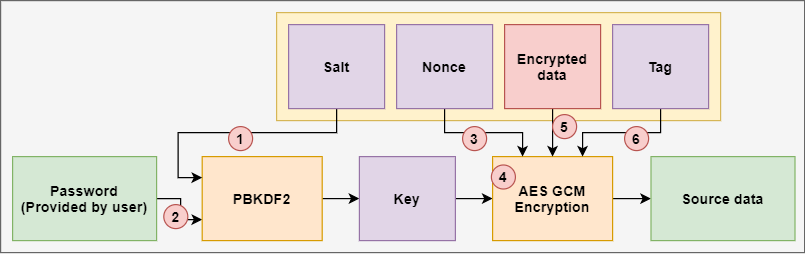
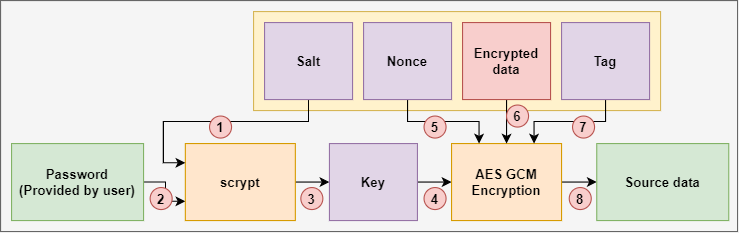
deploy: bbc1d8b04a5475883d2f68c6b2c6ae458238b070

diff --git a/blog/post/python-gcm-encryption-tutorial/index.html b/blog/post/python-gcm-encryption-tutorial/index.html
@@ -105,7 +105,7 @@
 <li><a href="#installing-pycryptodome">Installing PyCryptodome</a></li>
 <li><a href="#generating-a-key">Generating A Key</a><ul>
 <li><a href="#generating-a-salt">Generating a Salt</a></li>
-<li><a href="#generating-the-key-using-pbkdf2">Generating the Key Using PBKDF2</a></li>
+<li><a href="#generating-the-key-using-scrypt">Generating the Key Using scrypt</a></li>
 </ul>
 </li>
 <li><a href="#source-and-storage-planning">Source and Storage Planning</a><ul>
@@ -167,13 +167,13 @@
 <li><a href="/blog/post/python-encryption-and-decryption-with-pycryptodome/#generating-a-key-from-a-password">How to generate a key from a password</a></li>
 </ul>
 <p>For this tutorial I'll just go over how to generate a key from a password as it is the most popular method. You are still free to use a randomly generate key as demonstrated in the links above - they will still work with these examples.</p>
-<p>When generating a key from a password, we need to take a string provided by the user and create an appropriately sized byte sequence; the method used must produce the same output for the same inputs. To do this we can use <code>Crypto.Protocol.KDF.PBKDF2</code> (<a href="https://pycryptodome.readthedocs.io/en/latest/src/protocol/kdf.html#Crypto.Protocol.KDF.PBKDF2">API reference</a>). PBKDF2 allows us to generate a key of any length by simply passing a password and <em>salt</em>. </p>
+<p>When generating a key from a password, we need to take a string provided by the user and create an appropriately sized byte sequence; the method used must produce the same output for the same inputs. To do this we can use <code>Crypto.Protocol.KDF.scrypt</code> (<a href="https://pycryptodome.readthedocs.io/en/latest/src/protocol/kdf.html#scrypt">API reference</a>). <em>scrypt</em> allows us to generate a key of any length by simply passing a password and <em>salt</em>. </p>
 <blockquote>
-<p>PBKDF2 is used because PBKDF1 can only generate keys up to 160 bits long.</p>
+<p>scrypt has been used instead of PBKDF2 because in addition to being computationally expensive, it is also memory intensive and therefore more secure against the risk of custom ASICs.</p>
 </blockquote>
-<p>PBKDF2 is different to the SHA family (ie. <em>SHA-256</em> and <em>SHA-512</em>) because it also takes a salt and a work factor. Providing a salt that will mean that the same hash does not map to the same password every time, thus preventing <a href="https://en.wikipedia.org/wiki/Rainbow_table">rainbow table</a> lookups. A work factor is also specified to make the transformation more computationally difficult which means the key is harder to brute force.</p>
+<p><em>scrypt</em> is different to the SHA family (ie. <em>SHA-256</em> and <em>SHA-512</em>) because it also takes a salt and a work factor. Providing a salt that will mean that the same hash does not map to the same password every time, thus preventing <a href="https://en.wikipedia.org/wiki/Rainbow_table">rainbow table</a> lookups. A work factor is also specified to make the transformation more computationally difficult which means the key is harder to brute force.</p>
 <blockquote>
-<p>You can read more about the differences between password hashes differ and secure hashes in <a href="https://crypto.stackexchange.com/a/35279">this reply on Stack Exchange</a>.</p>
+<p>You can read more about the differences between password hashes differ and secure hashes in <a href="https://crypto.stackexchange.com/a/35279">this reply on Stack Exchange</a> - in this example PBKDF2 is compared to SHA-512 rather than scrypt.</p>
 </blockquote>
 <h3 id="generating-a-salt">
 <span style="position:relative"><a class="anchor" href="#generating-a-salt"><svg aria-hidden="true" focusable="false" height="16" version="1.1" viewBox="0 0 16 16" width="16"><path d="M4 9h1v1H4c-1.5 0-3-1.69-3-3.5S2.55 3 4 3h4c1.45 0 3 1.69 3 3.5 0 1.41-.91 2.72-2 3.25V8.59c.58-.45 1-1.27 1-2.09C10 5.22 8.98 4 8 4H4c-.98 0-2 1.22-2 2.5S3 9 4 9zm9-3h-1v1h1c1 0 2 1.22 2 2.5S13.98 12 13 12H9c-.98 0-2-1.22-2-2.5 0-.83.42-1.64 1-2.09V6.25c-1.09.53-2 1.84-2 3.25C6 11.31 7.55 13 9 13h4c1.45 0 3-1.69 3-3.5S14.5 6 13 6z" fill-rule="evenodd"></path></svg></a>Generating a Salt</span></h3>
@@ -188,22 +188,26 @@
 </code></pre></div>
 
 
-<p>This is a random sequence of bytes that has been generated. For every object (like files) you will encrypt, you should generate a new salt for it to be combined with the password by PBKDF2. This will mean the same password does not create the same key for multiple objects.</p>
+<p>This is a random sequence of bytes that has been generated. For every object (like files) you will encrypt, you should generate a new salt for it to be combined with the password by scrypt. This will mean the same password does not create the same key for multiple objects.</p>
 <p>It's safe to store this generated salt with the encrypted output and in this tutorial I'll show you how to store them with the output and then read them back out. </p>
-<h3 id="generating-the-key-using-pbkdf2">
-<span style="position:relative"><a class="anchor" href="#generating-the-key-using-pbkdf2"><svg aria-hidden="true" focusable="false" height="16" version="1.1" viewBox="0 0 16 16" width="16"><path d="M4 9h1v1H4c-1.5 0-3-1.69-3-3.5S2.55 3 4 3h4c1.45 0 3 1.69 3 3.5 0 1.41-.91 2.72-2 3.25V8.59c.58-.45 1-1.27 1-2.09C10 5.22 8.98 4 8 4H4c-.98 0-2 1.22-2 2.5S3 9 4 9zm9-3h-1v1h1c1 0 2 1.22 2 2.5S13.98 12 13 12H9c-.98 0-2-1.22-2-2.5 0-.83.42-1.64 1-2.09V6.25c-1.09.53-2 1.84-2 3.25C6 11.31 7.55 13 9 13h4c1.45 0 3-1.69 3-3.5S14.5 6 13 6z" fill-rule="evenodd"></path></svg></a>Generating the Key Using PBKDF2</span></h3>
+<h3 id="generating-the-key-using-scrypt">
+<span style="position:relative"><a class="anchor" href="#generating-the-key-using-scrypt"><svg aria-hidden="true" focusable="false" height="16" version="1.1" viewBox="0 0 16 16" width="16"><path d="M4 9h1v1H4c-1.5 0-3-1.69-3-3.5S2.55 3 4 3h4c1.45 0 3 1.69 3 3.5 0 1.41-.91 2.72-2 3.25V8.59c.58-.45 1-1.27 1-2.09C10 5.22 8.98 4 8 4H4c-.98 0-2 1.22-2 2.5S3 9 4 9zm9-3h-1v1h1c1 0 2 1.22 2 2.5S13.98 12 13 12H9c-.98 0-2-1.22-2-2.5 0-.83.42-1.64 1-2.09V6.25c-1.09.53-2 1.84-2 3.25C6 11.31 7.55 13 9 13h4c1.45 0 3-1.69 3-3.5S14.5 6 13 6z" fill-rule="evenodd"></path></svg></a>Generating the Key Using scrypt</span></h3>
 <p>Now that you have generated a salt, we can generate a key using the password being provided. Passing the password provided by the user, the salt that you just generated as well as declaring the output length, we can get the key.</p>
-<div class="codehilite"><pre><span></span><code><span class="kn">from</span> <span class="nn">Crypto.Protocol.KDF</span> <span class="kn">import</span> <span class="n">PBKDF2</span>
+<div class="codehilite"><pre><span></span><code><span class="kn">from</span> <span class="nn">Crypto.Protocol.KDF</span> <span class="kn">import</span> <span class="n">scrypt</span>
 
 <span class="n">salt</span> <span class="o">=</span> <span class="sa">b</span><span class="s1">&#39;...&#39;</span>  <span class="c1"># Salt you generated</span>
 <span class="n">password</span> <span class="o">=</span> <span class="s1">&#39;password123&#39;</span>  <span class="c1"># Password provided by the user, can use input() to get this</span>
 
-<span class="n">key</span> <span class="o">=</span> <span class="n">PBKDF2</span><span class="p">(</span><span class="n">password</span><span class="p">,</span> <span class="n">salt</span><span class="p">,</span> <span class="n">dkLen</span><span class="o">=</span><span class="mi">32</span><span class="p">)</span>  <span class="c1"># Your key that you can encrypt with</span>
+<span class="n">key</span> <span class="o">=</span> <span class="n">scrypt</span><span class="p">(</span><span class="n">password</span><span class="p">,</span> <span class="n">salt</span><span class="p">,</span> <span class="n">key_len</span><span class="o">=</span><span class="mi">32</span><span class="p">,</span> <span class="n">N</span><span class="o">=</span><span class="mi">2</span><span class="o">**</span><span class="mi">17</span><span class="p">,</span> <span class="n">r</span><span class="o">=</span><span class="mi">8</span><span class="p">,</span> <span class="n">p</span><span class="o">=</span><span class="mi">1</span><span class="p">)</span>  <span class="c1"># Your key that you can encrypt with</span>
 </code></pre></div>
 
 
 <p>Now in <code>key</code>, you will have the key that you can use in encryption - you can view it using <code>print(key)</code>. You do not have to store this key now as you can see that this can be generated every time regarding the user provides the same password as long as you use the same salt (which we will be storing with the encrypted file/object).</p>
-<p>In the example above, <code>dkLen</code> has been set to 32; this is the length of the key that we want to be output. 32 has been used because 32 * 8 bits (8 bits = 1 byte) is 256, this means we will be using AES-256 when providing the key generated by this function.</p>
+<p>In the example above, <code>key_len</code> has been set to 32; this is the length of the key that we want to be output. 32 has been used because 32 * 8 bits (8 bits = 1 byte) is 256, this means we will be using AES-256 when providing the key generated by this function.</p>
+<p>I also passed values for <code>N</code>, <code>r</code> and <code>p</code> which can be found in the <a href="https://pycryptodome.readthedocs.io/en/latest/src/protocol/kdf.html#scrypt">docs for scrypt</a>. <code>N</code> is the work factor (CPU/Memory cost) which will determine how long it takes to calculate the output - 2^14 will be &lt;100ms whereas 2^20 will be &lt;5s on today's machines. </p>
+<blockquote>
+<p>I have left <code>N</code> as <code>2**17</code> to keep people happy about the timing of encryption - in the case of blind copy and paste. If you're implementing this in a critical system or want to add have scrypt return a slightly more secure derivation, I recommend bumping <code>N</code> to <code>2**20</code>.</p>
+</blockquote>
 <h2 id="source-and-storage-planning">
 <span style="position:relative"><a class="anchor" href="#source-and-storage-planning"><svg aria-hidden="true" focusable="false" height="16" version="1.1" viewBox="0 0 16 16" width="16"><path d="M4 9h1v1H4c-1.5 0-3-1.69-3-3.5S2.55 3 4 3h4c1.45 0 3 1.69 3 3.5 0 1.41-.91 2.72-2 3.25V8.59c.58-.45 1-1.27 1-2.09C10 5.22 8.98 4 8 4H4c-.98 0-2 1.22-2 2.5S3 9 4 9zm9-3h-1v1h1c1 0 2 1.22 2 2.5S13.98 12 13 12H9c-.98 0-2-1.22-2-2.5 0-.83.42-1.64 1-2.09V6.25c-1.09.53-2 1.84-2 3.25C6 11.31 7.55 13 9 13h4c1.45 0 3-1.69 3-3.5S14.5 6 13 6z" fill-rule="evenodd"></path></svg></a>Source and Storage Planning</span></h2>
 <p>Before we begin, we need to do a bit of planning of what is being encrypted (the source) and any transformations required, the inputs and outputs for both encryption and decryption and storing values we need to remember with the encrypted file.</p>
@@ -236,7 +240,7 @@
 <p><img alt="Encryption Flow Diagram" src="/posts/python-gcm-encryption-tutorial/encryption-flow-diagram.png" /></p>
 <ol>
 <li>Generate a new salt.</li>
-<li>Use <code>PBKDF2</code> to convert the salt and password into a key we can use.</li>
+<li>Use <code>scrypt</code> to convert the salt and password into a key we can use.</li>
 <li>Open a new file and write the salt out.<ul>
 <li>We write the salt to the output file first as we will need it when decrypting later.</li>
 <li>Putting it in this file allows to keep the correct salt with the encrypted data.</li>
@@ -271,7 +275,7 @@
 <li>The salt we generated was 32 bytes long, so calling <code>.read(32)</code> will get the salt out of the encrypted file.</li>
 </ul>
 </li>
-<li>Use <code>PBKDF2</code> to convert the salt and password into a key again.</li>
+<li>Use <code>scrypt</code> to convert the salt and password into a key again.</li>
 <li>Read the nonce from the source file like we did for the salt.<ul>
 <li>AES GCM always generates a nonce that is 16 bytes long, so calling <code>.read(16)</code> will get the nonce out of the encrypted file.</li>
 </ul>
@@ -287,7 +291,7 @@
 <span style="position:relative"><a class="anchor" href="#encryption"><svg aria-hidden="true" focusable="false" height="16" version="1.1" viewBox="0 0 16 16" width="16"><path d="M4 9h1v1H4c-1.5 0-3-1.69-3-3.5S2.55 3 4 3h4c1.45 0 3 1.69 3 3.5 0 1.41-.91 2.72-2 3.25V8.59c.58-.45 1-1.27 1-2.09C10 5.22 8.98 4 8 4H4c-.98 0-2 1.22-2 2.5S3 9 4 9zm9-3h-1v1h1c1 0 2 1.22 2 2.5S13.98 12 13 12H9c-.98 0-2-1.22-2-2.5 0-.83.42-1.64 1-2.09V6.25c-1.09.53-2 1.84-2 3.25C6 11.31 7.55 13 9 13h4c1.45 0 3-1.69 3-3.5S14.5 6 13 6z" fill-rule="evenodd"></path></svg></a>Encryption</span></h2>
 <div class="codehilite"><pre><span></span><code><span class="kn">from</span> <span class="nn">Crypto.Random</span> <span class="kn">import</span> <span class="n">get_random_bytes</span>
 <span class="kn">from</span> <span class="nn">Crypto.Cipher</span> <span class="kn">import</span> <span class="n">AES</span>
-<span class="kn">from</span> <span class="nn">Crypto.Protocol.KDF</span> <span class="kn">import</span> <span class="n">PBKDF2</span>
+<span class="kn">from</span> <span class="nn">Crypto.Protocol.KDF</span> <span class="kn">import</span> <span class="n">scrypt</span>
 
 <span class="n">BUFFER_SIZE</span> <span class="o">=</span> <span class="mi">1024</span> <span class="o">*</span> <span class="mi">1024</span>  <span class="c1"># The size in bytes that we read, encrypt and write to at once</span>
 
@@ -302,7 +306,7 @@
 <span class="n">file_out</span> <span class="o">=</span> <span class="nb">open</span><span class="p">(</span><span class="n">output_filename</span><span class="p">,</span> <span class="s1">&#39;wb&#39;</span><span class="p">)</span>  <span class="c1"># wb = write bytes. Required to write the encrypted data</span>
 
 <span class="n">salt</span> <span class="o">=</span> <span class="n">get_random_bytes</span><span class="p">(</span><span class="mi">32</span><span class="p">)</span>  <span class="c1"># Generate salt</span>
-<span class="n">key</span> <span class="o">=</span> <span class="n">PBKDF2</span><span class="p">(</span><span class="n">password</span><span class="p">,</span> <span class="n">salt</span><span class="p">,</span> <span class="n">dkLen</span><span class="o">=</span><span class="mi">32</span><span class="p">)</span>  <span class="c1"># Generate a key using the password and salt</span>
+<span class="n">key</span> <span class="o">=</span> <span class="n">scrypt</span><span class="p">(</span><span class="n">password</span><span class="p">,</span> <span class="n">salt</span><span class="p">,</span> <span class="n">key_len</span><span class="o">=</span><span class="mi">32</span><span class="p">,</span> <span class="n">N</span><span class="o">=</span><span class="mi">2</span><span class="o">**</span><span class="mi">17</span><span class="p">,</span> <span class="n">r</span><span class="o">=</span><span class="mi">8</span><span class="p">,</span> <span class="n">p</span><span class="o">=</span><span class="mi">1</span><span class="p">)</span>  <span class="c1"># Generate a key using the password and salt</span>
 <span class="n">file_out</span><span class="o">.</span><span class="n">write</span><span class="p">(</span><span class="n">salt</span><span class="p">)</span>  <span class="c1"># Write the salt to the top of the output file</span>
 
 <span class="n">cipher</span> <span class="o">=</span> <span class="n">AES</span><span class="o">.</span><span class="n">new</span><span class="p">(</span><span class="n">key</span><span class="p">,</span> <span class="n">AES</span><span class="o">.</span><span class="n">MODE_GCM</span><span class="p">)</span>  <span class="c1"># Create a cipher object to encrypt data</span>
@@ -331,7 +335,7 @@
 <div class="codehilite"><pre><span></span><code><span class="kn">import</span> <span class="nn">os</span>
 
 <span class="kn">from</span> <span class="nn">Crypto.Cipher</span> <span class="kn">import</span> <span class="n">AES</span>
-<span class="kn">from</span> <span class="nn">Crypto.Protocol.KDF</span> <span class="kn">import</span> <span class="n">PBKDF2</span>
+<span class="kn">from</span> <span class="nn">Crypto.Protocol.KDF</span> <span class="kn">import</span> <span class="n">scrypt</span>
 
 <span class="n">BUFFER_SIZE</span> <span class="o">=</span> <span class="mi">1024</span> <span class="o">*</span> <span class="mi">1024</span>  <span class="c1"># The size in bytes that we read, encrypt and write to at once</span>
 
@@ -347,7 +351,7 @@
 
 <span class="c1"># Read salt and generate key</span>
 <span class="n">salt</span> <span class="o">=</span> <span class="n">file_in</span><span class="o">.</span><span class="n">read</span><span class="p">(</span><span class="mi">32</span><span class="p">)</span>  <span class="c1"># The salt we generated was 32 bits long</span>
-<span class="n">key</span> <span class="o">=</span> <span class="n">PBKDF2</span><span class="p">(</span><span class="n">password</span><span class="p">,</span> <span class="n">salt</span><span class="p">,</span> <span class="n">dkLen</span><span class="o">=</span><span class="mi">32</span><span class="p">)</span>  <span class="c1"># Generate a key using the password and salt again</span>
+<span class="n">key</span> <span class="o">=</span> <span class="n">scrypt</span><span class="p">(</span><span class="n">password</span><span class="p">,</span> <span class="n">salt</span><span class="p">,</span> <span class="n">key_len</span><span class="o">=</span><span class="mi">32</span><span class="p">,</span> <span class="n">N</span><span class="o">=</span><span class="mi">2</span><span class="o">**</span><span class="mi">17</span><span class="p">,</span> <span class="n">r</span><span class="o">=</span><span class="mi">8</span><span class="p">,</span> <span class="n">p</span><span class="o">=</span><span class="mi">1</span><span class="p">)</span>  <span class="c1"># Generate a key using the password and salt again</span>
 
 <span class="c1"># Read nonce and create cipher</span>
 <span class="n">nonce</span> <span class="o">=</span> <span class="n">file_in</span><span class="o">.</span><span class="n">read</span><span class="p">(</span><span class="mi">16</span><span class="p">)</span>  <span class="c1"># The nonce is 16 bytes long</span>

diff --git a/about/index.html b/about/index.html
@@ -30,7 +30,7 @@
 <meta property="og:url" content="https://nitratine.net/about/">
 <meta name="twitter:card" content="summary">
 
-<!-- Latest build: 13/08/2020 11:23:38 -->
+<!-- Latest build: 14/08/2020 06:06:29 -->
 
     </head>
 
